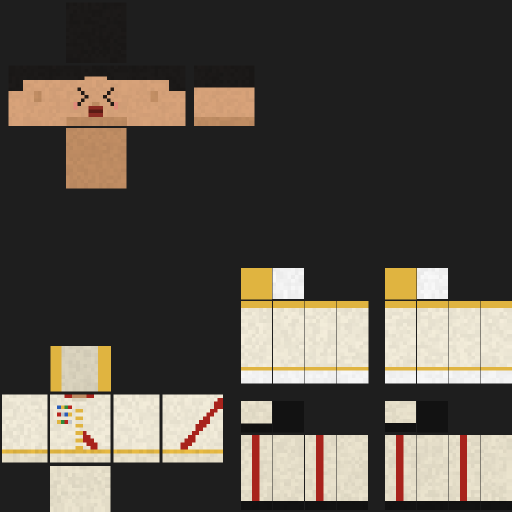
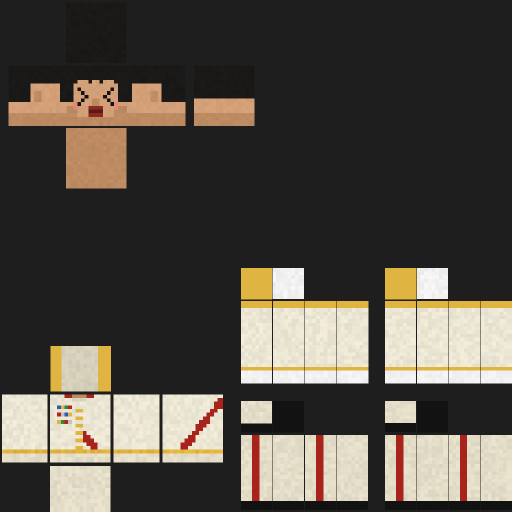
지금 바로 쏴! v42: 캐릭터 얼굴을 앱 아이콘 그림체로(굵은 머리·눈썹, 흰자 있는 눈)
Claude-Session: https://claude.ai/code/session_01S8HeT6WXLFVQpayfak2kjP

Changed region(s): [[0.2188, 0.1562, 0.5, 0.2188], [0.0, 0.1562, 0.1562, 0.2188], [0.1562, 0.125, 0.2188, 0.1562]]

diff --git a/shoot-right-now/rail.js b/shoot-right-now/rail.js
@@ -3076,7 +3076,7 @@
   const KCH = { ready: false, src: null, tex: {}, mat: {}, dead: {}, kit: {} };
   const kTex = (k) => {
     if (KCH.tex[k]) return KCH.tex[k];
-    const t = new T.TextureLoader().load("models/characters/skins/" + k + ".png?v=31");
+    const t = new T.TextureLoader().load("models/characters/skins/" + k + ".png?v=42");
     t.flipY = false; t.encoding = T.sRGBEncoding; t.magFilter = T.NearestFilter;
     t.wrapS = t.wrapT = T.RepeatWrapping; t.anisotropy = 4;
     return (KCH.tex[k] = t);

diff --git a/shoot-right-now/en.html b/shoot-right-now/en.html
@@ -76,6 +76,6 @@
 <script src="profile.js?v=39"></script>
 <script src="engine.js?v=29"></script>
 <script src="gun-sfx.js?v=33"></script>
-<script src="rail.js?v=41"></script>
+<script src="rail.js?v=42"></script>
 </body>
 </html>

diff --git a/shoot-right-now/index.html b/shoot-right-now/index.html
@@ -75,6 +75,6 @@
 <script src="profile.js?v=39"></script>
 <script src="engine.js?v=29"></script>
 <script src="gun-sfx.js?v=33"></script>
-<script src="rail.js?v=41"></script>
+<script src="rail.js?v=42"></script>
 </body>
 </html>

diff --git a/shoot-right-now/HANDOFF.md b/shoot-right-now/HANDOFF.md
@@ -433,6 +433,9 @@ Stage 1(서울)은 손대지 않았고, 그 뒤에 **Stage 2**를 붙였다. 두
 - **v2**: 레일 슈터 골격(`baro-baro-jump` 엔진 위에 얹었다가 이후 완전 분리).
 - **v1**: `baro-baro-jump` HTML을 fetch/DOMParser로 재파싱해 쓰던 시절 → **지금은 금지된 구조**. 독립 빌드로 되돌리지 말 것.
 
+## 4-5. v42 — 아이콘풍 얼굴 (2026-11-23)
+- 모든 스킨 얼굴을 앱 아이콘 그림체로 다시 그림(`/tmp/paint2.py`의 `face`): 굵은 검은 머리 블록 + 앞머리·구레나룻, 안쪽이 내려간 굵은 눈썹(군인), 흰자+검은 눈동자 2줄 눈, 짧은 입, 볼·턱 그늘. 민간인은 걱정스러운 눈썹(`worried`). 사망 표정은 >_< 그대로. 스킨 URL `?v=42`. rail.js v42.
+
 ## 4-6. v41 — 세로 화면: 안 보이는 적에게 맞는 문제 (2026-11-23)
 - 세로 화면 광각: `FOV_MAX` 82→94, `FOV_KEEP_H` 76→80(가로는 58 그대로).
 - 공정한 사격 `seenK(p)`: 적이 화면 안(NDC |x|≤0.97)에 있을 때만 조준 게이지가 줄고(`p.aim -= dt * seenK(p)`, 6곳), 화면 밖에서 쏜 탄은 피해 0(`enemyFire`).
